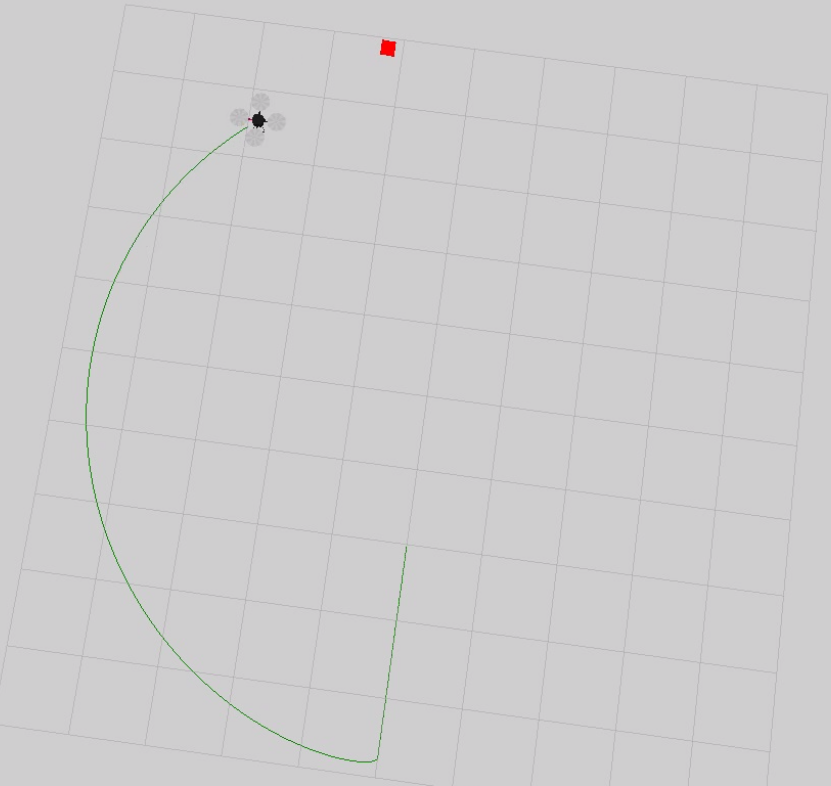
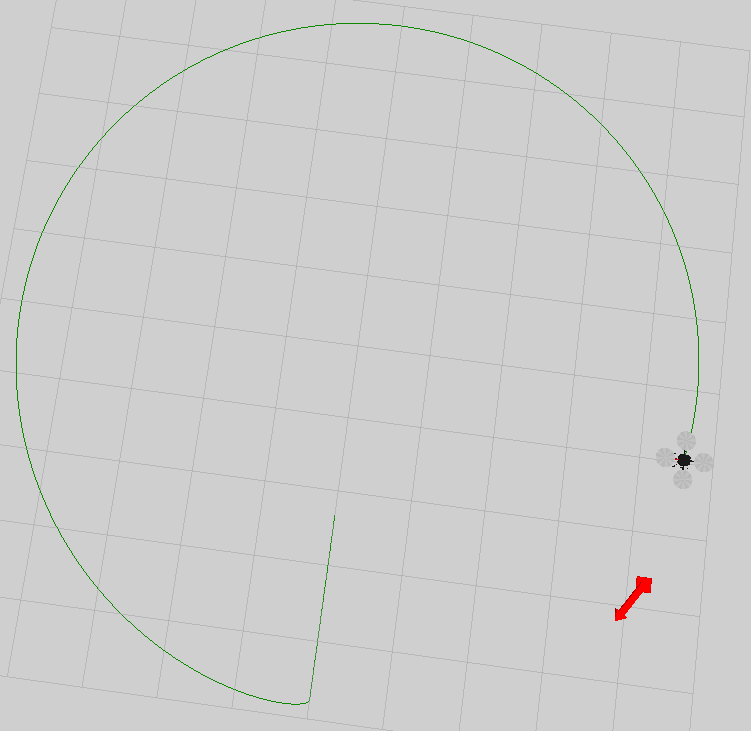
reports/abdeali: Add figures for stochastic env

diff --git a/report/abdeali/main.tex b/report/abdeali/main.tex
@@ -256,7 +256,7 @@ In the case of the continuous rewards and states like ours, it is impossible to 
 
 \section{Predator Prey methods}
 
-Predator Prey environments are dynamic systems where there are a few Predators and a few prey. The predators attempt to catch the prey while the latter attempts to escape. There are a few escape states where the predator is incapable of reaching, but the prey is - making those the end states. This work involves learning a second layer (high level control of the quad-rotor) to chase after a trajectory. 
+Predator Prey environments are dynamic systems where there are a few Predators and a few prey. The predators attempt to catch the prey while the latter attempts to escape. There are a few escape states where the predator is incapable of reaching, but the prey is - making those the end states. This work involves learning a second layer (high level control of the quad-rotor) to chase after a trajectory.
 
 The Predator Prey systems are motivated from population theory \cite{PredatorPreyCoEvolution} where the population of animals is modelled. In such cases, there is food for prey (plants) planted at various points. These are considered to be static, but they can grow over time. The prey moves around eating or resting. Eating and resting allows them to conserve energy which is then used to escape from predators or find more food. If a prey or predator does not eat for too long, they may die. Population theory is used to spawn new predators and prey based on known distributions.
 
@@ -383,12 +383,12 @@ The propellers are modelled as discs as a trade-off between visual accuracy, col
     \begin{subfigure}[c]{0.45\textwidth}
       \centering
         \includegraphics[width=\textwidth]{quadrotor_sim.png}
-        \caption{\label{fig:fig1}}
+        \caption{}
     \end{subfigure}
     \begin{subfigure}[c]{0.45\textwidth}
       \centering
         \includegraphics[width=\textwidth]{quadrotor_sim2.png}
-        \caption{\label{fig:fig2}}
+        \caption{}
     \end{subfigure}
     \caption{Quad-rotor simulated by Hector Quadrotor using ROS and gazebo.}
 \end{figure}
@@ -458,12 +458,12 @@ Combining the revolutions per minute (rpm) of the 4 rotors makes it possible for
     \begin{subfigure}[c]{0.45\textwidth}
       \centering
         \includegraphics[width=\textwidth]{quadrotor_rotors_roll.png}
-        \caption{\label{fig:fig1}}
+        \caption{}
     \end{subfigure}
     \begin{subfigure}[c]{0.45\textwidth}
       \centering
         \includegraphics[width=\textwidth]{quadrotor_rotors_pitch.png}
-        \caption{\label{fig:fig2}}
+        \caption{}
     \end{subfigure}
     \caption{The configuration of the 4 rotors of a quad-rotor to change roll and pitch.}
 \end{figure}
@@ -624,6 +624,21 @@ The $\epsilon_i$ would be different for $\omega$ as compared to the others becau
     \caption{Quad-rotor simulation moving in a circular trajecotry with the checkpoint technique. The red marker denotes the current targetted checkpoint and the blue markers are all the checkpoints in the trajectory.}
 \end{figure}
 
+\begin{figure}[h]
+  \centering
+  \begin{subfigure}[c]{0.45\textwidth}
+    \centering
+      \includegraphics[width=\textwidth]{checkpoint_circle.png}
+      \caption{With no stochasticity}
+  \end{subfigure}
+  \begin{subfigure}[c]{0.45\textwidth}
+    \centering
+      \includegraphics[width=\textwidth]{checkpoint_circle_wind.png}
+      \caption{With large stochasticity - wind with uniform sum distribution limited to $5 m/s$}
+  \end{subfigure}
+  \caption{Quad-rotor simulation moving in a circular trajecotry with the checkpoint technique. The red marker denotes the current targetted checkpoint and the blue markers are all the checkpoints in the trajectory.}
+\end{figure}
+
 \subsection{Jerky trajectories}
 The underlying policy that is being used is the position control. So the quad-rotor thinks that it should stop at the next checkpoint because it has reached the target. Hence, it decelerates when it is in the checkpoint's vicinity. This causes the trajectory to be a little jerky adding excessive noise near the checkpoints.
 
@@ -671,8 +686,17 @@ In pursuit, the complete trajectory function with time is known. Here, the targe
 
 \begin{figure}[h]
   \centering
-    \includegraphics[width=0.6\textwidth]{pursuit_circle.png}
-    \caption{Quad-rotor simulation moving in a circular trajecotry with the pursuit technique. The red marker denotes the current position of the moving target.}
+  \begin{subfigure}[c]{0.45\textwidth}
+    \centering
+      \includegraphics[width=\textwidth]{pursuit_circle.png}
+      \caption{With no stochasticity}
+  \end{subfigure}
+  \begin{subfigure}[c]{0.45\textwidth}
+    \centering
+      \includegraphics[width=\textwidth]{pursuit_circle_wind.png}
+      \caption{With large stochasticity - wind with uniform sum distribution limited to $5 m/s$}
+  \end{subfigure}
+  \caption{Quad-rotor simulation moving in a circular trajecotry with the pursuit technique. The red marker and arrow denote the current position and velocity of the target.}
 \end{figure}
 
 \subsection{Accumulated error}
@@ -683,15 +707,15 @@ For environments where the stochasticity is not much this is a great value add t
 \subsection{Lead time}
 The amount of time by which the trajectory is leading will affect the actual trajectory the quad-rotor will fly. This may depend on trajectory to trajectory, for example a square would need a small lead time whereas a circle or oval would work well with a larger one in comparison. A straight line can have a large lead time.
 
-A constant leading time may be harmful because the leading time would depend on the trajectory itself. For example, a sharp corner would need a small leading time while a smooth trajectory would not need a small leading time. If the leading time is set to be too small, the quad-rotor would move very slowly as it assumes the target is close by.
-
-Due to the fact that the target trajectory is continuous and changes with every time step, the trajectory generated by this method is extremely smooth. The major issue of this method is that there is no feedback from the quad-rotor to the trajectory generator, which makes it impossible for the quadrotor to recover if it deviates from the path.
-
 \begin{figure}[h]
   \centering
     \includegraphics[width=0.6\textwidth]{pursuit_con.png}
     \caption{Schematic of the pursuit technique showing the quad-rotor and the leading target in a case where a portion of the trajectory is ignored because the target is leading by a large amount.}
 \end{figure}
+
+A constant leading time may be harmful because the leading time would depend on the trajectory itself. For example, a sharp corner would need a small leading time while a smooth trajectory would not need a small leading time. If the leading time is set to be too small, the quad-rotor would move very slowly as it assumes the target is close by.
+
+Due to the fact that the target trajectory is continuous and changes with every time step, the trajectory generated by this method is extremely smooth. The major issue of this method is that there is no feedback from the quad-rotor to the trajectory generator, which makes it impossible for the quadrotor to recover if it deviates from the path.
 
 \section{Comparison of trajectory techniques}
 
@@ -705,13 +729,13 @@ Consider the experiment of a circular trajectory with a radius $r$ centered at $
   \centering
     % \includegraphics[width=0.6\textwidth]{pursuit_con.png}
     \caption{Comparison of accuracy in trajectory control techniques following a 2D circular path.}
-    \label{fig:TrajectoryComparison)
+    \label{fig:TrajectoryComparison}
 \end{figure}
 
 \subsection{Smoothness of the trajectory}
 There are two metrics to consider smoothness. One is the smoothness of the spatial function of the trajectory. For example, whether the trajectory has extra edges while the original trajectory does not. The other metric to consider smoothness is related to time, the smoothness of the agent's motion on the trajectory and whether the velocity and acceleration is the expected value.
 
-We once again consider the experiment of a circular trajectory with a radius $r$ centered at $(0,0,0)$ on the XY plane. By checking the deviation from the radius over time, we can find points where the graph peaks. This can be seen in \ref{fig:TrajectoryComparison}. We find the trajectory of the checkpoint based method is not smooth in this sense. Although, the error of the pursuit method overall is large. This shows that there is a inverse relation between accuracy and smoothness. In checkpoints, if we decrease the number of checkpoints, we would get a smoother trajectory which wouldn't be as accurate.
+We once again consider the experiment of a circular trajectory with a radius $r$ centered at $(0,0,0)$ on the XY plane. By checking the deviation from the radius over time, we can find points where the graph peaks. This can be seen in Figure \ref{fig:TrajectoryComparison}. We find the trajectory of the checkpoint based method is not smooth in this sense. Although, the error of the pursuit method overall is large. This shows that there is a inverse relation between accuracy and smoothness. In checkpoints, if we decrease the number of checkpoints, we would get a smoother trajectory which wouldn't be as accurate.
 
 The smoothness of velocity can once again be calculated in the circular trajectory experiment. Here, we plot the magnitude of the velocity and analyze the variation in both cases. We see that the checkpoints method has jerks in the speed because of the decelaration when the checkpoint is close by. This is not seen in pursuit as the target there is at a nearly constant distance from the agent.
 
@@ -720,7 +744,6 @@ The smoothness of velocity can once again be calculated in the circular trajecto
   \centering
     % \includegraphics[width=0.6\textwidth]{pursuit_con.png}
     \caption{Comparison of speed in trajectory control techniques following a 2D circular path.}
-    \label{fig:TrajectoryComparison)
 \end{figure}
 
 \subsection{Speed control}
